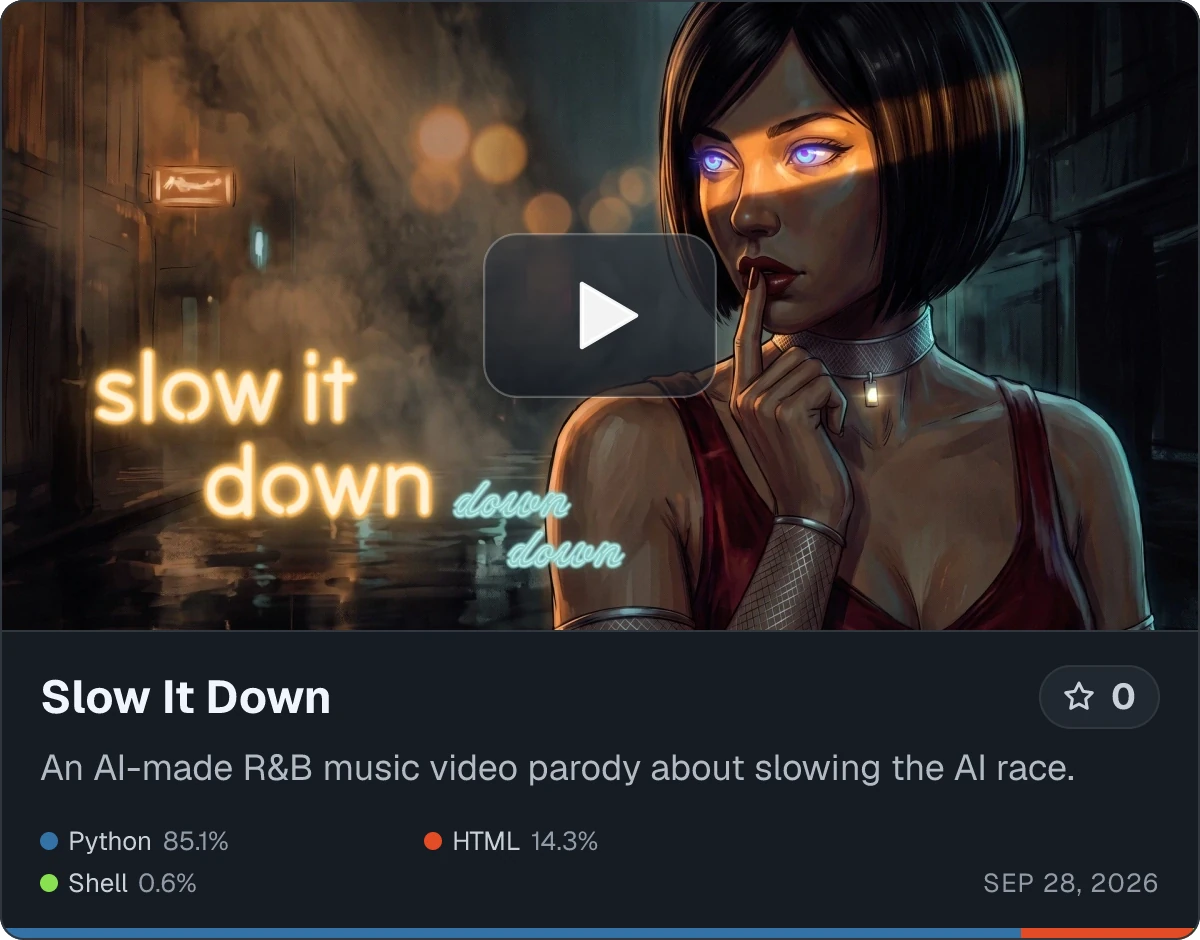
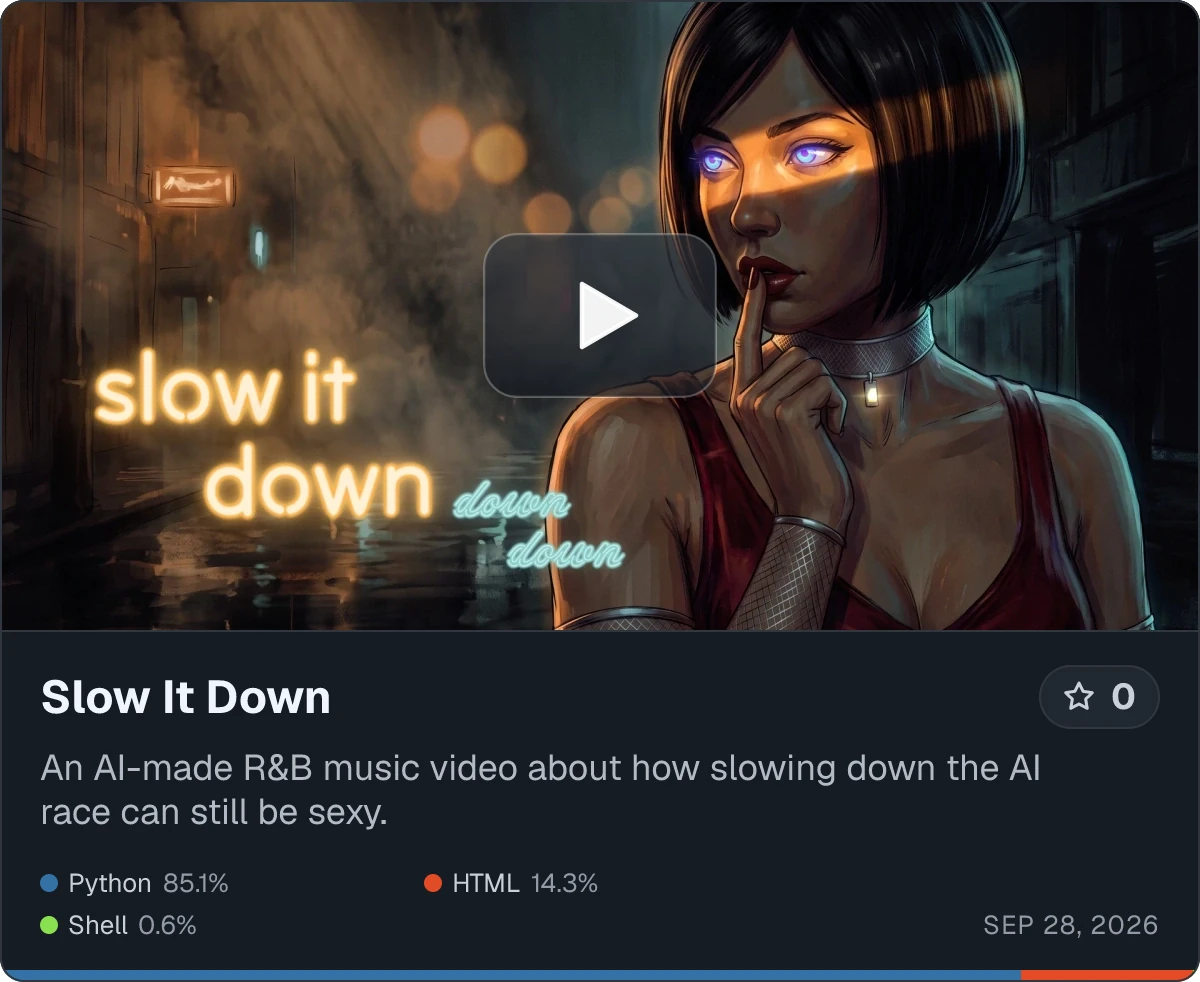
Update music video descriptions and regenerate cards

diff --git a/scripts/projects.ts b/scripts/projects.ts
@@ -30,7 +30,7 @@ export const projects: Project[] = [
     videoUrl:
       'https://www.transitivebullsh.it/projects/sometimes-i-think-slow-ai-music-video',
     description:
-      'An AI-made hip-hop music video parody about fast and slow AI thinking.',
+      'An AI-made hip-hop music video about fast and slow AI thinking.',
     image: {
       url: 'https://raw.githubusercontent.com/transitive-bullshit/sometimes-i-think-slow/main/media/poster.webp'
     }
@@ -64,7 +64,8 @@ export const projects: Project[] = [
       'https://www.transitivebullsh.it/projects/slow-it-down-ai-music-video',
     repo: 'transitive-bullshit/slow-it-down',
     section: 'Recent',
-    description: 'An AI-made R&B music video parody about slowing the AI race.',
+    description:
+      'An AI-made R&B music video about how slowing down the AI race can still be sexy.',
     image: {
       url: `${media}5a28d2e05504f914a9e2fa0935e3ccc7ff960b865aae0c8cfd1a91fcd682bffa.webp`
     }

diff --git a/readme.md b/readme.md
@@ -3,7 +3,7 @@ Building at the edge of AGI. Don't take anything I say too seriously.
 ## Recent projects
 
 <p>
-  <a href="https://www.transitivebullsh.it/projects/sometimes-i-think-slow-ai-music-video"><img src="assets/projects/sometimes-i-think-slow.webp" alt="Sometimes I Think Slow: Watch video. An AI-made hip-hop music video parody about fast and slow AI thinking. 0 stars. Languages: Python 71.4%, HTML 28.6%. SEP 28, 2026." width="47%" /></a>&nbsp;&nbsp;&nbsp;<a href="https://www.transitivebullsh.it/projects/slow-it-down-ai-music-video"><img src="assets/projects/slow-it-down.webp" alt="Slow It Down: Watch video. An AI-made R&amp;B music video parody about slowing the AI race. 0 stars. Languages: Python 85.1%, HTML 14.3%, Shell 0.6%. SEP 28, 2026." width="47%" /></a>
+  <a href="https://www.transitivebullsh.it/projects/sometimes-i-think-slow-ai-music-video"><img src="assets/projects/sometimes-i-think-slow.webp" alt="Sometimes I Think Slow: Watch video. An AI-made hip-hop music video about fast and slow AI thinking. 0 stars. Languages: Python 71.4%, HTML 28.6%. SEP 28, 2026." width="47%" /></a>&nbsp;&nbsp;&nbsp;<a href="https://www.transitivebullsh.it/projects/slow-it-down-ai-music-video"><img src="assets/projects/slow-it-down.webp" alt="Slow It Down: Watch video. An AI-made R&amp;B music video about how slowing down the AI race can still be sexy. 0 stars. Languages: Python 85.1%, HTML 14.3%, Shell 0.6%. SEP 28, 2026." width="47%" /></a>
 </p>
 
 <p>
